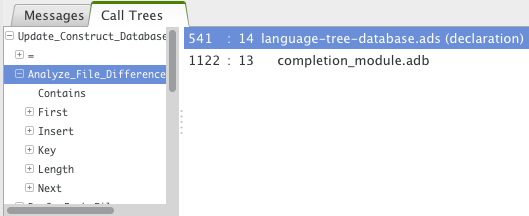
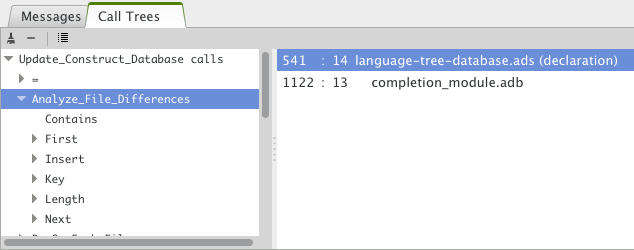
Update calltree screenshot, now that it has a local toolbar.  M913-038
git-svn-id: svn+ssh://svn.eu.adacore.com/Dev/trunk/gps@215948 936e1b1b-40f2-da11-902a-00137254ae57

Changed region(s): [[0.0, 0.0, 1.0, 1.0]]

diff --git a/docs/users_guide/main_window.rst b/docs/users_guide/main_window.rst
@@ -916,17 +916,16 @@ The contents of the calltree is not restored the next time GPS is restarted,
 because its contents might be misleading if the sources have changed in-between,
 and GPS would be wasting time loading the information again.
 
-Right-clicking on a line in the :guilabel:`Calltree` brings up a contextual
-menu with the following entries:
+The local toolbar provides the following buttons:
 
-:menuselection:`Collapse all`
-  Collapse all the entities in the Callgraph View.
+* :guilabel:`Clear`
+  Remove all entries from the Callgraph View.
 
-:menuselection:`Remove entity`
+* :guilabel:`Remove entity`
   Remove the selected entity from the Callgraph View.
 
-:menuselection:`Clear Call Trees`
-  Remove all entries from the Callgraph View.
+* :guilabel:`Collapse all`
+  Collapse all the entities in the Callgraph View.
 
 .. _Call_Graph:
 
